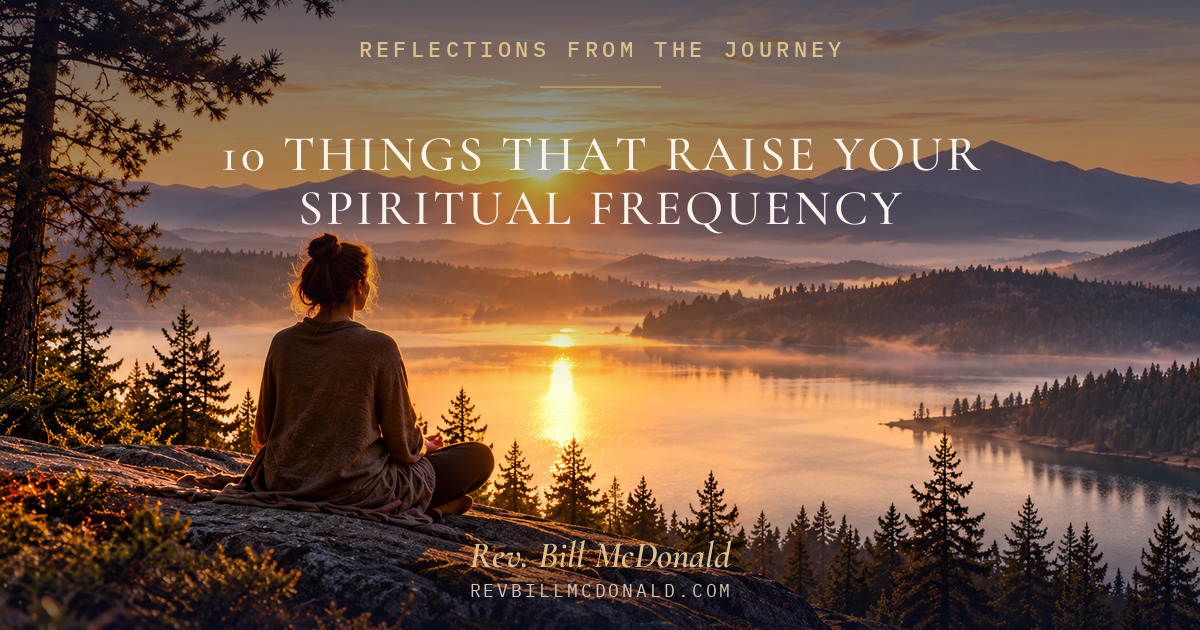
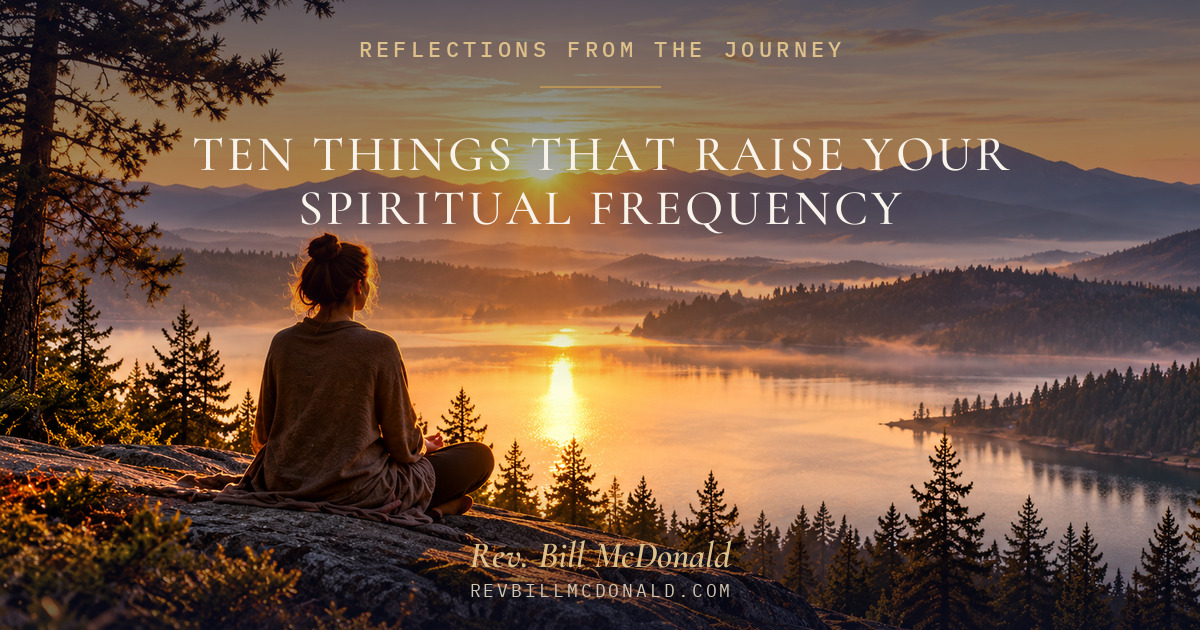
Fix the number 10 reading as "IO" on the Frequency article
The serif font's figure 1 looks like a capital I, so the large "10"
numeral, the page title and the Reflections card read as "IO".
Numerals now use the site's Work Sans, the title and card wrap the 10
the same way, and the link-preview and Instagram graphics say TEN.

Changed region(s): [[0.1542, 0.2111, 0.8325, 0.2714]]

diff --git a/reflections/raise-your-spiritual-frequency/index.html b/reflections/raise-your-spiritual-frequency/index.html
@@ -259,7 +259,7 @@
   .brief .note{ font-family:'IBM Plex Mono', monospace; font-size:0.58rem; letter-spacing:0.08em; text-transform:uppercase; color:#8F98AA; margin-top:0.7rem; }
 
   /* ---- numbered movements, callouts, mountain pages ---- */
-  .essay h2 .num{ display:block; font-family:'Cormorant Garamond', serif; font-weight:500; font-size:3.2rem; line-height:1; color:rgba(183,147,85,0.55); margin-bottom:0.35rem; letter-spacing:0.02em; }
+  .essay h2 .num{ display:block; font-family:'Work Sans', sans-serif; font-weight:300; font-size:2.7rem; line-height:1; color:rgba(183,147,85,0.6); margin-bottom:0.4rem; letter-spacing:0.01em; }
   .essay h2.has-num::before{ display:none; }
   .essay .blk-callout{ background:var(--parchment); border-left:2px solid var(--gold); padding:1.6rem 2rem 0.4rem; margin:0 0 2.4rem; border-radius:2px; }
   .essay .blk-callout .callout-label{ font-family:'IBM Plex Mono', monospace; font-size:0.66rem; letter-spacing:0.12em; text-transform:uppercase; color:var(--amber); margin-bottom:1rem; }
@@ -275,8 +275,10 @@
   .mtn-nav a:hover{ border-color:var(--gold); color:var(--amber); }
   .essay figure.mtn-photo{ margin:0 0 1.8rem; }
   .essay figure.mtn-photo img{ width:100%; height:auto; display:block; aspect-ratio:16/9; object-fit:cover; border-radius:10px; box-shadow:0 18px 40px -20px rgba(24,35,56,0.4); }
-  @media (max-width:640px){ .essay h2 .num{ font-size:2.6rem; } .essay .blk-callout{ padding:1.4rem 1.3rem 0.3rem; } .essay .blk-progress p{ font-size:1.35rem; } }
+  @media (max-width:640px){ .essay h2 .num{ font-size:2.3rem; } .essay .blk-callout{ padding:1.4rem 1.3rem 0.3rem; } .essay .blk-progress p{ font-size:1.35rem; } }
   @media (prefers-reduced-motion: reduce){ .read-progress{ transition:none; } }
+
+  .dg{ font-family:'Work Sans', sans-serif; font-weight:400; font-size:0.84em; letter-spacing:0.02em; margin-right:0.06em; }
 </style>
 </head>
 <body>
@@ -324,7 +326,7 @@
 
 <section class="article-hero">
   <div class="eyebrow">Reflections From the Journey &middot; Spiritual Practice</div>
-  <h1 class="display">10 Things That Raise Your Spiritual Frequency</h1>
+  <h1 class="display"><span class="dg">10</span> Things That Raise Your Spiritual Frequency</h1>
   <div class="sub">What “raising your frequency” means when we understand it as a quality of consciousness</div>
   <div class="meta">By Rev. Bill McDonald &middot; Approx. 8 min read</div>
 </section>

diff --git a/reflections/index.html b/reflections/index.html
@@ -197,6 +197,8 @@
   footer .flegal a:hover{ color:var(--gold); }
   footer .flegal a:not(:last-child)::after{ content:' · '; color:#5A6478; }
   footer .fcopy{ font-family:'IBM Plex Mono', monospace; font-size:0.6rem; letter-spacing:0.06em; color:#5A6478; }
+
+  .dg{ font-family:'Work Sans', sans-serif; font-weight:400; font-size:0.84em; letter-spacing:0.02em; margin-right:0.06em; }
 </style>
 </head>
 <body>
@@ -297,7 +299,7 @@
         <div class="rphoto" style="background-image:url('../images/frequency-rev-bill-hero.jpg'); background-position:30% 55%;"></div>
         <div class="rbody">
           <span class="k">Spiritual Practice &middot; New</span>
-          <h3>10 Things That Raise Your Spiritual Frequency</h3>
+          <h3><span class="dg">10</span> Things That Raise Your Spiritual Frequency</h3>
           <p>What &ldquo;raising your frequency&rdquo; means when we understand it as a quality of consciousness.</p>
         </div>
       </a>
